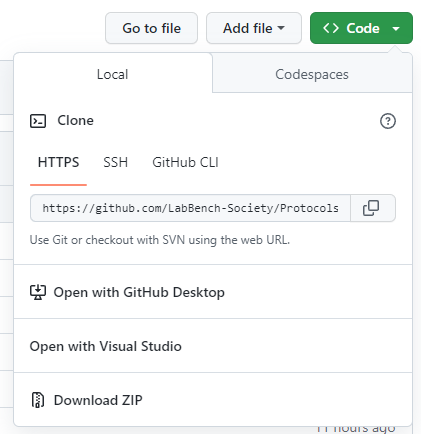
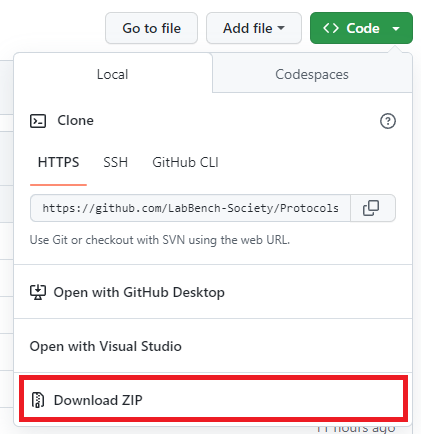
Added descriptions of download, forking and contributing

Changed region(s): [[0.0309, 0.8387, 0.9881, 0.9885]]

diff --git a/README.md b/README.md
@@ -61,6 +61,9 @@ Follow the URL in Method 1 for instructions on adding the repository to LabBench
 
 #### Download from Github
 
+To download a copy of the LabBench Beta Repository, click the ```<> Code``` button in the top right corner of this page. This opens a dropdown menu, in that menu select Download Zip:
+
+![](AccessRepository.png)
 
 #### Cloning or forking the repository from Github
 
@@ -79,6 +82,6 @@ Once your protocol is perfected and ready for your study, you are encouraged to 
 
 How to do this depends on how you obtained a copy of the repository:
 
-1. [Direct download from Github]: Zip the your copy of the repository and place it in a storage that allows you to send a link to this file (such as Sharepoint or Dropbox (preferred). Then send this link to ```help@labbench.io```.
+1. [Download from Github]: Zip the your copy of the repository and place it in a storage that allows you to send a link to this file (such as Sharepoint or Dropbox (preferred). Then send this link to ```help@labbench.io```.
 2. [Cloning or Forking the repository] Submit a pull request. 
 
